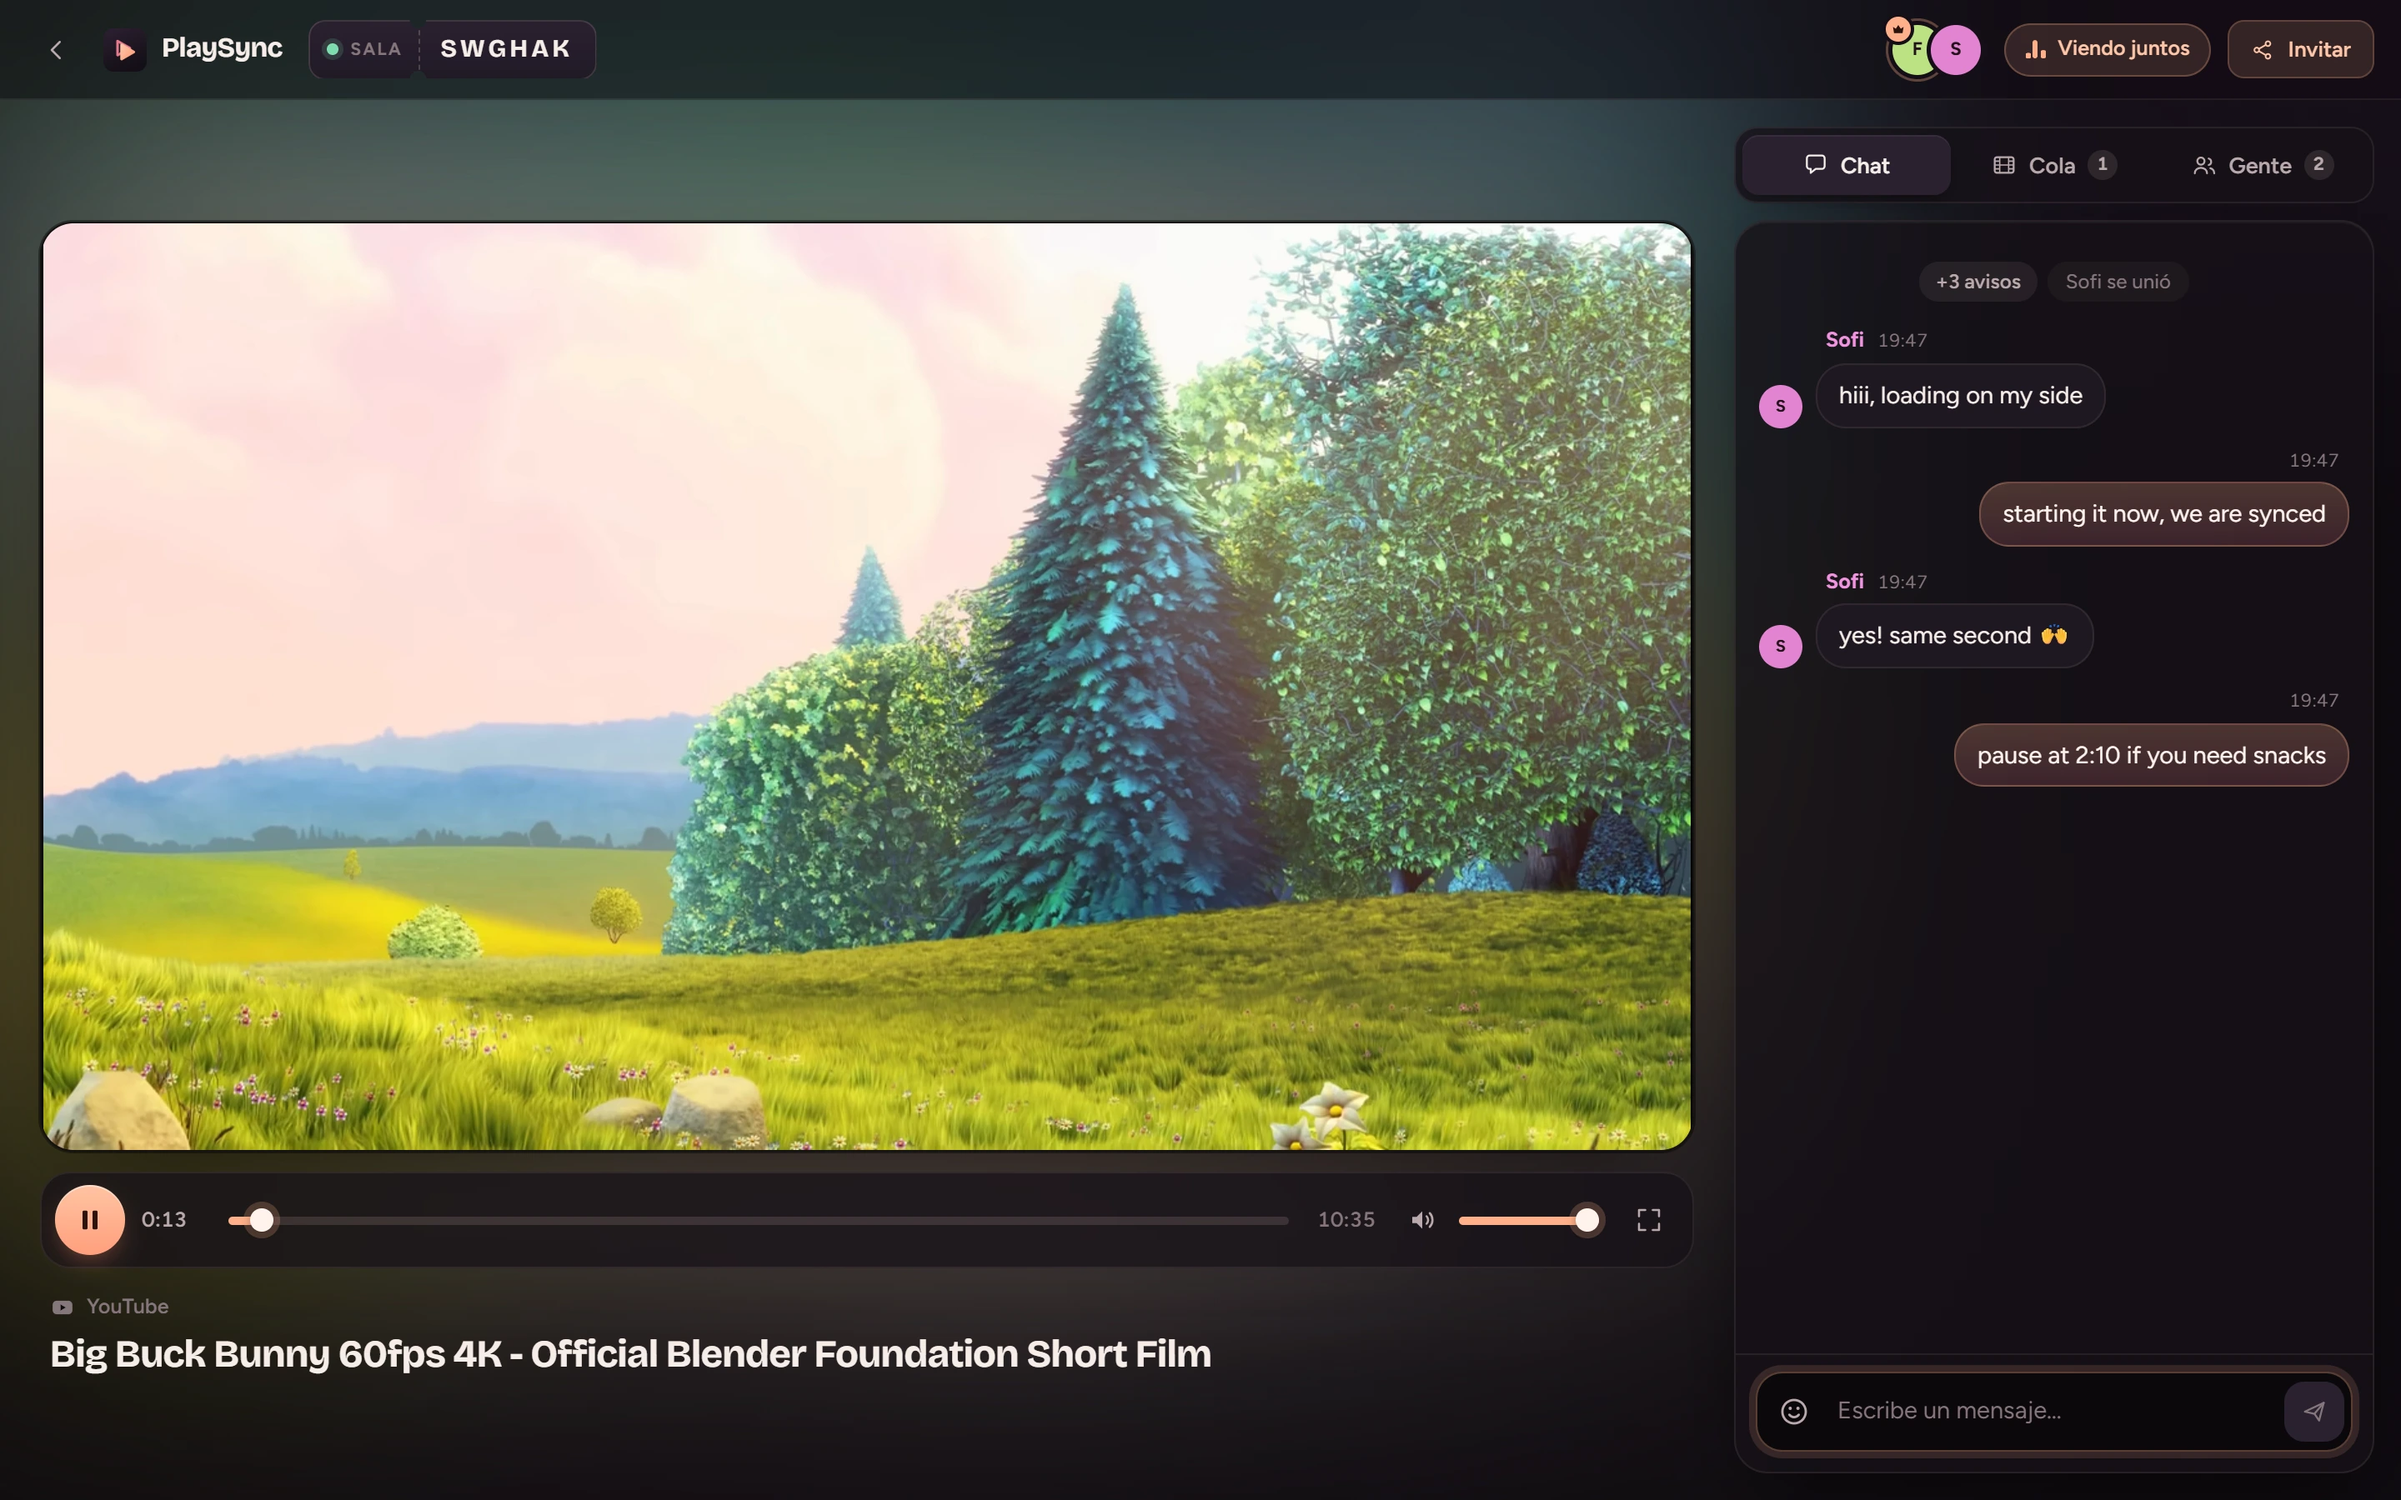
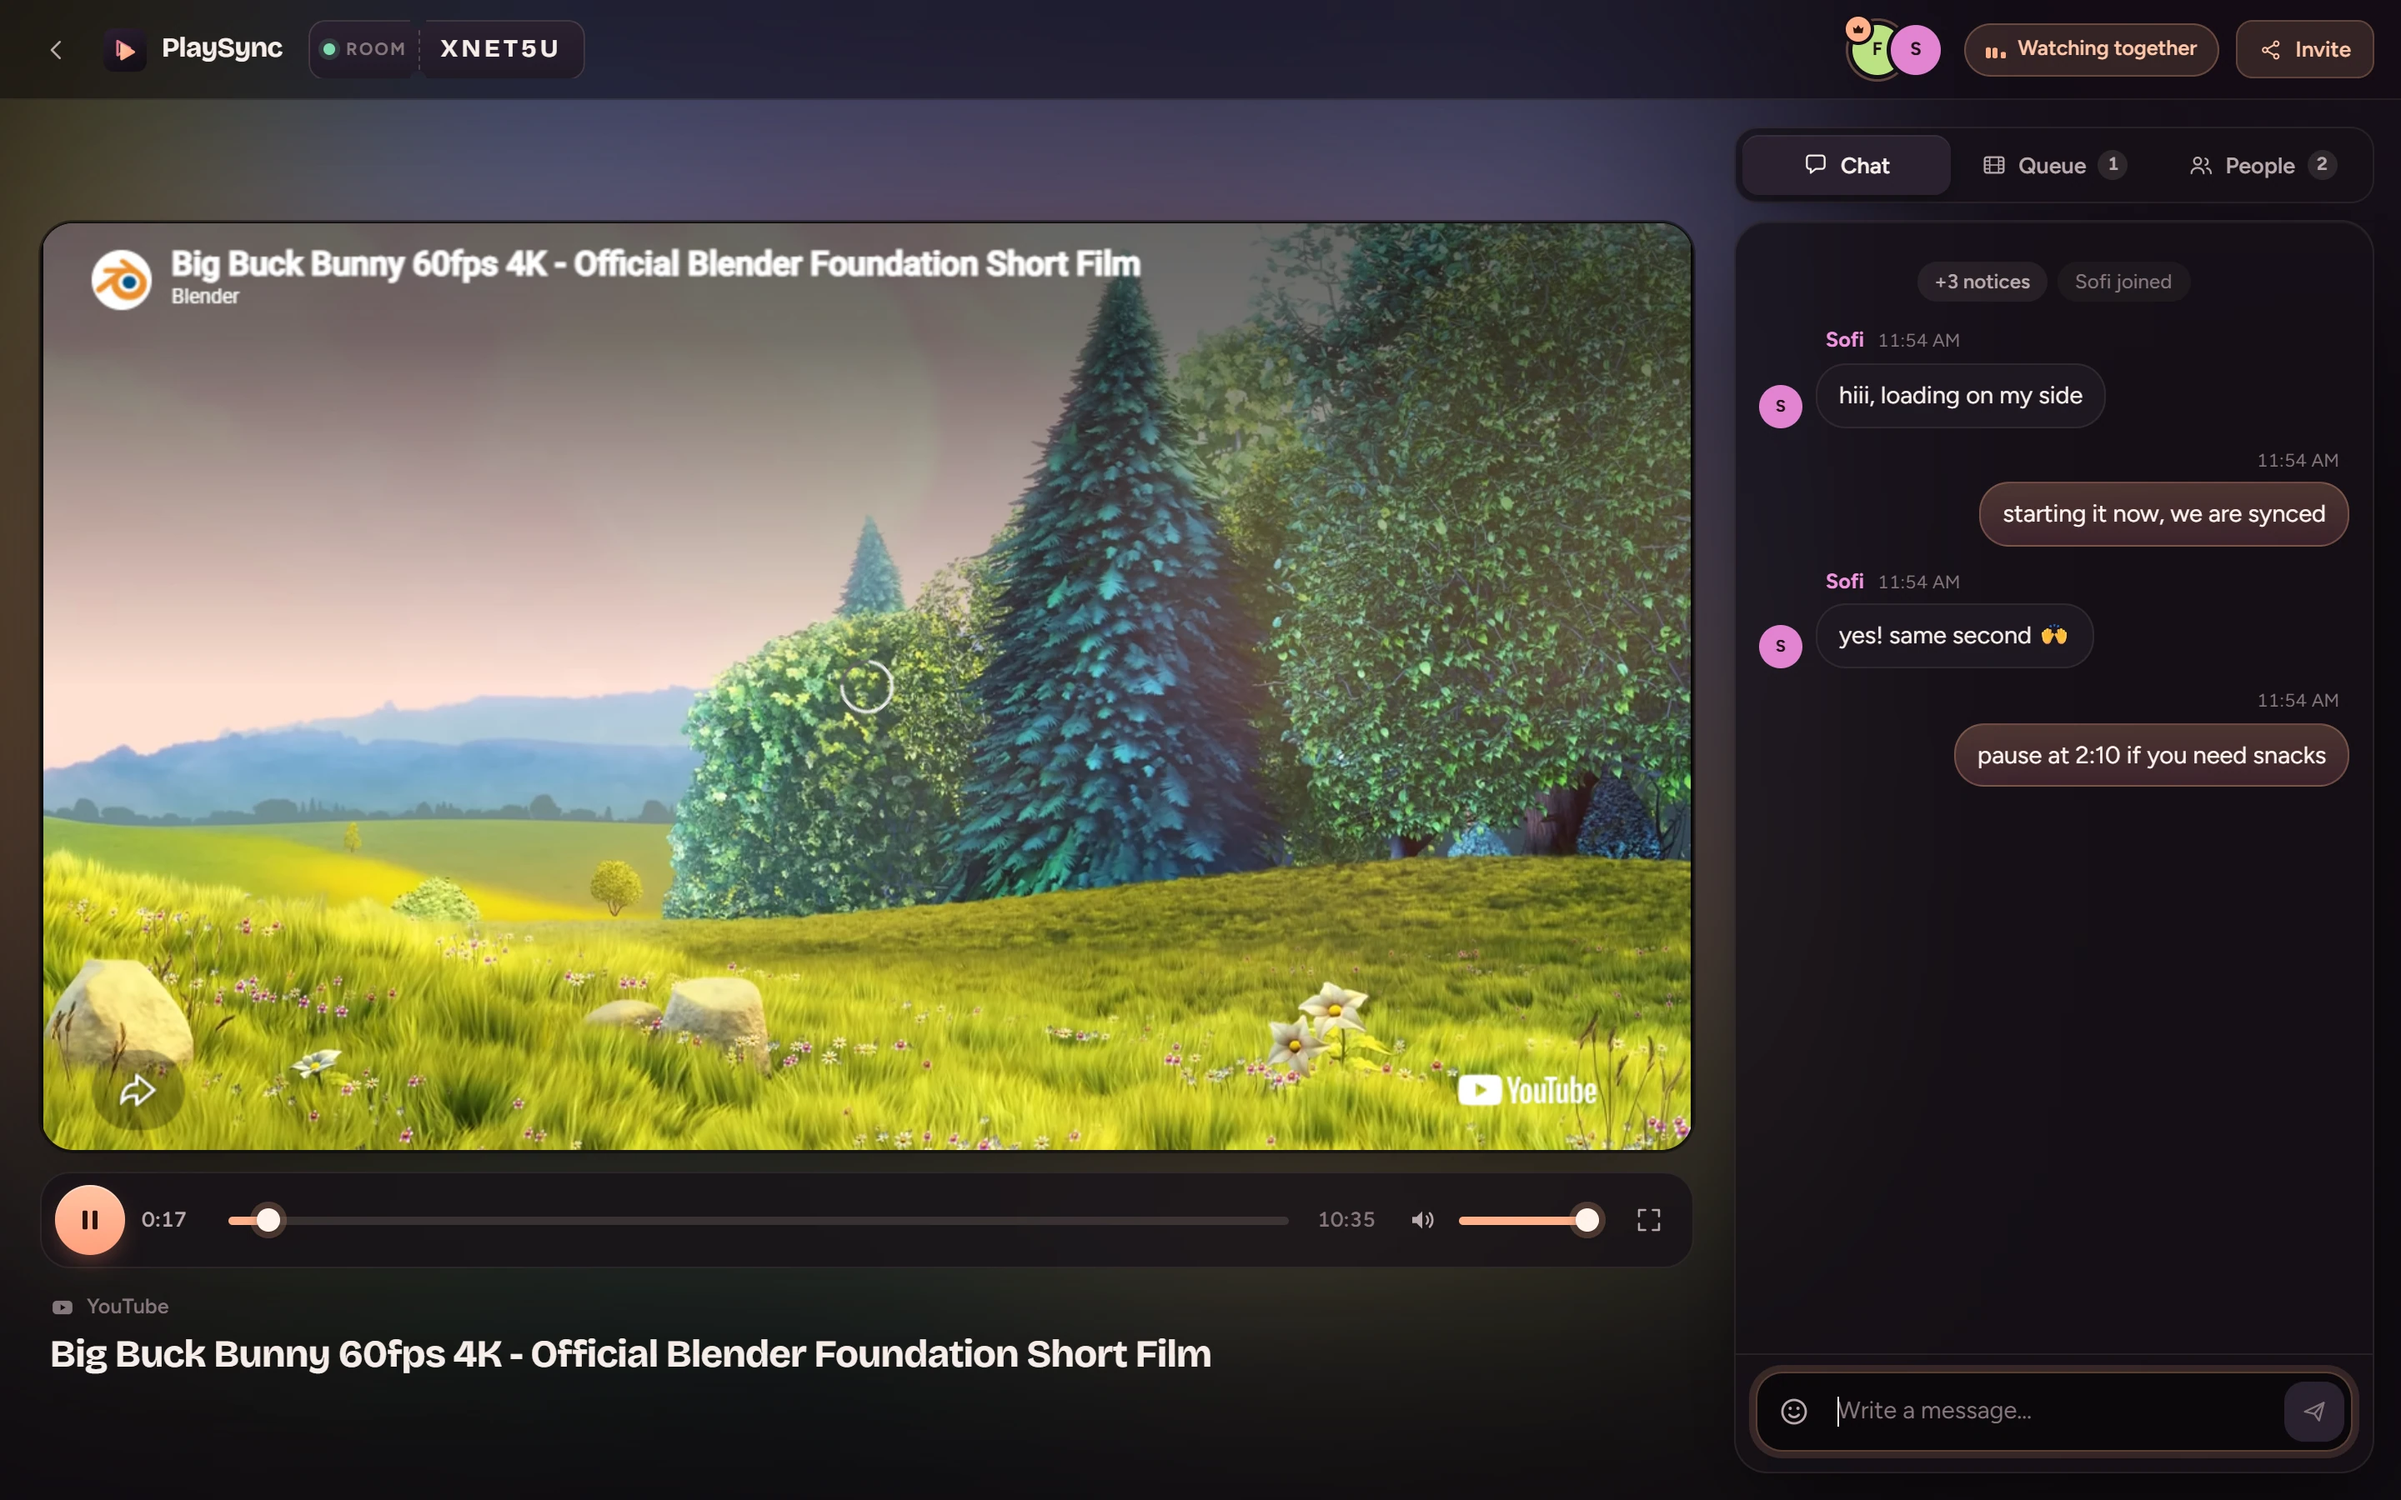
docs(readme): English screenshots and alt text

diff --git a/README.md b/README.md
@@ -6,7 +6,7 @@ Watch YouTube or a public Google Drive video in sync with people on other device
 
 > The demo runs on a free Render instance that sleeps when idle, so the first load can take up to a minute.
 
-<img src="docs/screenshots/playsync-main.webp" width="100%" alt="PlaySync room on a desktop, as the host: Big Buck Bunny playing at 0:13 with custom controls, the room code SWGHAK in a ticket-shaped badge, a 'Viendo juntos' status chip, two avatars, and a chat between Felix and Sofi in the side panel.">
+<img src="docs/screenshots/playsync-main.webp" width="100%" alt="PlaySync room on a desktop, as the host: Big Buck Bunny playing with custom controls, the room code in a ticket-shaped badge, a 'Watching together' status chip, two avatars, and a chat between Felix and Sofi in the side panel.">
 
 ## What it is
 
@@ -17,14 +17,14 @@ YouTube video never passes through the server. Each client plays the official Yo
 <table>
   <tr>
     <td width="260" valign="top">
-      <img src="docs/screenshots/playsync-mobile.webp" width="260" alt="The same room on a guest's phone, captured a second after the desktop shot: the video at 0:14, a lock on the play button, a 'Solo miras · Pedir el control' pill, the same chat, and a bottom tab bar with Chat, Cola and Gente.">
-      <br><sub>The same room on the guest's phone, a second later (0:14). Guests watch by default and can ask the host for control.</sub>
+      <img src="docs/screenshots/playsync-mobile.webp" width="260" alt="The same room on a guest's phone, captured in the same session: the video, a lock on the play button, a 'Just watching · Ask for control' pill, the same chat, and a bottom tab bar with Chat, Queue and People.">
+      <br><sub>The same room on the guest's phone. Guests watch by default and can ask the host for control.</sub>
     </td>
     <td valign="top">
-      <img src="docs/screenshots/playsync-search.webp" width="480" alt="YouTube search inside the player: a '¿Qué vemos?' search box with the query 'blender open movie' and a grid of video results with thumbnails, durations, channels and view counts. The queue panel on the right is empty.">
+      <img src="docs/screenshots/playsync-search.webp" width="480" alt="YouTube search inside the player: a 'What should we watch?' search box with the query 'blender open movie' and a grid of video results with thumbnails, durations, channels and view counts. The queue panel on the right is empty.">
       <br><sub>Search replaces the player when nothing is playing. No API key needed.</sub>
       <br><br>
-      <img src="docs/screenshots/playsync-landing.webp" width="480" alt="Landing page with the headline 'Mismo video. Mismo segundo.', a name field, a 'Crear una sala' button, a room code field, and an illustration of a laptop in Madrid and a phone in Bogotá playing the same frame.">
+      <img src="docs/screenshots/playsync-landing.webp" width="480" alt="Landing page with the headline 'Same video. Same second.', a name field, a 'Create a room' button, a room code field, and an illustration of a laptop in Madrid and a phone in Bogotá playing the same frame.">
       <br><sub>Landing: pick a name, create a room or join with a code.</sub>
     </td>
   </tr>
